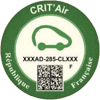
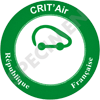
Ajout des vignettes critair

diff --git a/frontend/src/components/Report.vue b/frontend/src/components/Report.vue
@@ -41,12 +41,15 @@
         <!-- debut vignette -->
         <div class="row">
           <div class="col-sm-5">
-            <div class="alert alert-icon alert-info" role="alert"> <i v-bind:class="'fa fa-' + v.affichage_logo " ></i> Numéro - Plaque d'immatriculation : {{ v.plaque }}</div>
+            <div class="alert alert-icon alert-info" role="alert"> <i v-bind:class="'fa fa-' + v.logo_vehicule " ></i> Numéro - Plaque d'immatriculation : {{ v.plaque }}</div>
           </div>
-          <div class="col-sm-5" v-if="beta">
-            <div class="alert alert-icon alert-3" role="alert"> <i class="fa fa-info-circle"></i> Vignette Crit'Air - Tous les véhicules <span class="txt-small">100% électrique et hydrogènes</span> </div>
+          <div class="col-sm-5" v-if="v.vignette_numero !== ''">
+            <div v-bind:class="'alert alert-icon alert-' + v.vignette_numero " role="alert"> <i class="fa fa-info-circle"></i> Eligible vignette Crit'Air {{ v.vignette_numero }} </div>
           </div>
-          <div class="col-sm-2" v-if="beta"><img alt="" class="img-responsive" src="assets/images/vignettes_crit_air/petit/vignette_3.png"></div>
+          <div class="col-sm-2" v-if="v.vignette_numero !== ''">
+            <img class="img-responsive" v-bind:src="'assets/images/vignettes_crit_air/petit/vignette_' + v.vignette_numero + '.png' ">
+          </div>
+
         </div>
         <!-- fin vignette -->
         <!-- debut trait séparation -->
@@ -58,7 +61,7 @@
           <!-- Nav tabs -->
           <ul class="nav nav-tabs" role="tablist">
             <li :class="[{'active' : tab === 'abstract'}]"><a class="clickable" @click="tab = 'abstract'"><i class="fa fa-refresh pr-10"></i> Synthèse</a></li>
-            <li :class="[{'active' : tab === 'vehicle'}]"><a class="clickable" @click="tab = 'vehicle'"><i v-bind:class="'fa fa-' + v.affichage_logo + ' pr-10'" ></i>Véhicule</a></li>
+            <li :class="[{'active' : tab === 'vehicle'}]"><a class="clickable" @click="tab = 'vehicle'"><i v-bind:class="'fa fa-' + v.logo_vehicule + ' pr-10'" ></i>Véhicule</a></li>
             <li :class="[{'active' : tab === 'holder'}]"><a class="clickable" @click="tab = 'holder'"><i class="fa fa-address-card pr-10"></i>Titulaire & Titre</a></li>
             <li :class="[{'active' : tab === 'situation'}]"><a class="clickable" @click="tab = 'situation'"><i class="fa fa-clipboard pr-10"></i> Situation administrative</a></li>
             <li :class="[{'active' : tab === 'history'}]"><a class="clickable" @click="tab = 'history'"><i class="fa fa-calculator pr-10"></i> Historique des opérations </a></li>
@@ -78,7 +81,7 @@
                 </div>
                 <div class="row">
                   <!-- debut voiture  -->
-                  <div class="col-sm-1"><i v-bind:class="'fa fa-' + v.affichage_logo + ' fa-2x'" ></i></div>
+                  <div class="col-sm-1"><i v-bind:class="'fa fa-' + v.logo_vehicule + ' fa-2x'" ></i></div>
                   <div class="col-sm-6"><span class="info_red txt-small-13">{{ v.ctec.marque }} {{ v.ctec.modele }}</span></br>
                   <div v-if="v.ctec.puissance.cv">  <span class="txt-small-13">Puissance fiscale :</span> <span class="info_red txt-small-13">{{ v.ctec.puissance.cv }} ch</span></div> </div>
                     <div class="col-sm-5"><span class="color-info_2 bold_4 txt-small-13">Calculez le montant de votre certificat d'immatriculation</span><br/><a href="https://siv.interieur.gouv.fr/map-usg-ui/do/simtax_accueil" class="btn-sm-link pop color-info_2 bold_4 txt-small-12 no-padding" data-container="body" data-toggle="popover" data-placement="top" data-content="Calculez le montant de votre certificat d'immatriculation" data-original-title="Simulateur" title="Simulateur" target="_blank">Accédez au simulateur de calcul<i class="fa fa-external-link pl-10"></i></a></div>
@@ -896,7 +899,28 @@ export default {
         return (year > 1) ? year + ' ans' : year + ' an'
       }
     },
-    getLogoVehicule (genre) {
+    getVehiculeTypeCarburant (carburant) {
+      // Mapping Carburant
+      let essence = ['ES', 'EH', 'ET', 'FE', 'FH']
+      let diesel = ['GO', 'GA', 'GE', 'GF', 'GG', 'GH', 'PL', 'GQ']
+      let electHydro = ['AC', 'EL', 'H2', 'HE', 'HH']
+      let gaz = ['EG', 'EN', 'EP', 'EQ', 'FG', 'FN', 'G2', 'GN', 'GP', 'GZ', 'NH', 'PH']
+      let hybrideRech = ['EE', 'EM', 'ER', 'FL', 'GL', 'GM', 'NE', 'PE']
+      let typeCarburant = ''
+      if (essence.includes(carburant)) {
+        typeCarburant = 'essence'
+      } else if (diesel.includes(carburant)) {
+        typeCarburant = 'diesel'
+      } else if (electHydro.includes(carburant)) {
+        typeCarburant = 'electrique'
+      } else if (gaz.includes(carburant)) {
+        typeCarburant = 'gaz'
+      } else if (hybrideRech.includes(carburant)) {
+        typeCarburant = 'hybride'
+      }
+      return typeCarburant
+    },
+    getVehiculeLogo (genre) {
       let moto = ['MTL', 'MTT1', 'MTT2', 'MTTE', 'CL']
       let truck = ['CAM', 'Deriv-VP', 'TRA', 'TRR', 'TCP']
       let type = 'car'
@@ -906,6 +930,101 @@ export default {
         type = 'truck'
       }
       return type
+    },
+    getVignetteNumero (genre, typeCarburant, pollution, dateImmat) {
+      let splitDate = dateImmat.split('/')
+      let dateImmatEn = new Date(splitDate[2] + '-' + splitDate[1] + '-' + splitDate[0])
+
+      // Mapping Genre
+      let motocycle = ['MTL', 'MTT1', 'MTT2', 'MTTE', 'TM', 'QM', 'TQM']
+      let cyclomoteur = ['CYCL', 'CL']
+      let voiture = ['VP']
+      let vehiculeUtilLeger = ['CTTE', 'Deriv-VP', 'VTSU']
+      let poidsLourdsCarBus = ['CAM', 'TRA', 'TRR', 'TCP', 'VASP', 'SREM']
+
+      // Mapping Norme Euro
+      let normeEuro = (pollution) ? pollution.split('EURO') : ''
+      let numeroEuro = (normeEuro !== '' && normeEuro[1] !== undefined) ? normeEuro[1] : ''
+      let vignette = ''
+
+      if (typeCarburant === 'gaz' || typeCarburant === 'hybride') {
+        vignette = 1
+      } else if (typeCarburant === 'electrique') {
+        vignette = 'electrique'
+      } else {
+        if (motocycle.includes(genre) || cyclomoteur.includes(genre)) {
+          if (numeroEuro === '4' || (numeroEuro === '' && motocycle.includes(genre) && dateImmatEn >= new Date('2017-01-01')) || (numeroEuro === '' && cyclomoteur.includes(genre) && dateImmatEn >= new Date('2018-01-01'))) {
+            vignette = 1
+          } else if (numeroEuro === '3' || (numeroEuro === '' && motocycle.includes(genre) && (dateImmatEn >= new Date('2007-01-01') && dateImmatEn <= new Date('2016-12-31'))) || (numeroEuro === '' && cyclomoteur.includes(genre) && (dateImmatEn >= new Date('2007-01-01') && dateImmatEn <= new Date('2017-12-31')))) {
+            vignette = 2
+          } else if (numeroEuro === '2' || (numeroEuro === '' && dateImmatEn >= new Date('2004-07-01') && dateImmatEn >= new Date('2006-12-31'))) {
+            vignette = 3
+          } else if (dateImmatEn >= new Date('2000-06-01') && dateImmatEn <= new Date('2004-06-30')) {
+            vignette = 4
+          }
+        } else if (voiture.includes(genre)) {
+          if (typeCarburant === 'essence') {
+            if (numeroEuro === '5' || numeroEuro === '6' || (numeroEuro === '' && dateImmatEn >= new Date('2011-01-01'))) {
+              vignette = 1
+            } else if (numeroEuro === '4' || (numeroEuro === '' && dateImmatEn >= new Date('2006-01-01') && dateImmatEn <= new Date('2010-12-31'))) {
+              vignette = 2
+            } else if (numeroEuro === '2' || numeroEuro === '3' || (numeroEuro === '' && dateImmatEn >= new Date('1997-01-01') && dateImmatEn <= new Date('2005-12-31'))) {
+              vignette = 3
+            }
+          } else if (typeCarburant === 'diesel') {
+            if (numeroEuro === '5' || numeroEuro === '6' || (numeroEuro === '' && dateImmatEn >= new Date('2011-01-01'))) {
+              vignette = 2
+            } else if (numeroEuro === '4' || (numeroEuro === '' && dateImmatEn >= new Date('2006-01-01') && dateImmatEn <= new Date('2010-12-31'))) {
+              vignette = 3
+            } else if (numeroEuro === '3' || (numeroEuro === '' && dateImmatEn >= new Date('2001-01-01') && dateImmatEn <= new Date('2005-12-31'))) {
+              vignette = 4
+            } else if (numeroEuro === '2' || (numeroEuro === '' && dateImmatEn >= new Date('1997-01-01') && dateImmatEn <= new Date('2000-12-31'))) {
+              vignette = 5
+            }
+          }
+        } else if (vehiculeUtilLeger.includes(genre)) {
+          if (typeCarburant === 'essence') {
+            if (numeroEuro === '5' || numeroEuro === '6' || (numeroEuro === '' && dateImmatEn >= new Date('2011-01-01'))) {
+              vignette = 1
+            } else if (numeroEuro === '4' || (numeroEuro === '' && dateImmatEn >= new Date('2006-01-01') && dateImmatEn <= new Date('2010-12-31'))) {
+              vignette = 2
+            } else if (numeroEuro === '2' || numeroEuro === '3' || (numeroEuro === '' && dateImmatEn >= new Date('1997-01-01') && dateImmatEn <= new Date('2005-12-31'))) {
+              vignette = 3
+            }
+          } else if (typeCarburant === 'diesel') {
+            if (numeroEuro === '5' || numeroEuro === '6' || (numeroEuro === '' && dateImmatEn >= new Date('2011-01-01'))) {
+              vignette = 2
+            } else if (numeroEuro === '4' || (numeroEuro === '' && dateImmatEn >= new Date('2006-01-01') && dateImmatEn <= new Date('2010-12-31'))) {
+              vignette = 3
+            } else if (numeroEuro === '3' || (numeroEuro === '' && dateImmatEn >= new Date('2001-01-01') && dateImmatEn <= new Date('2005-12-31'))) {
+              vignette = 4
+            } else if (numeroEuro === '2' || (numeroEuro === '' && dateImmatEn >= new Date('1997-01-01') && dateImmatEn <= new Date('2000-12-31'))) {
+              vignette = 5
+            }
+          }
+        } else if (poidsLourdsCarBus.includes(genre)) {
+          if (typeCarburant === 'essence') {
+            if (numeroEuro === '6' || (numeroEuro === '' && dateImmatEn >= new Date('2014-01-01'))) {
+              vignette = 1
+            } else if (numeroEuro === '5' || (numeroEuro === '' && dateImmatEn >= new Date('2009-10-01') && dateImmatEn <= new Date('2013-12-31'))) {
+              vignette = 2
+            } else if (numeroEuro === '3' || numeroEuro === '4' || (numeroEuro === '' && dateImmatEn >= new Date('2001-10-01') && dateImmatEn <= new Date('2009-09-30'))) {
+              vignette = 3
+            }
+          } else if (typeCarburant === 'diesel') {
+            if (numeroEuro === '6' || (numeroEuro === '' && dateImmatEn >= new Date('2014-01-01'))) {
+              vignette = 2
+            } else if (numeroEuro === '5' || (numeroEuro === '' && dateImmatEn >= new Date('2009-10-01') && dateImmatEn <= new Date('2013-12-31'))) {
+              vignette = 3
+            } else if (numeroEuro === '4' || (numeroEuro === '' && dateImmatEn >= new Date('2006-10-01') && dateImmatEn <= new Date('2009-09-30'))) {
+              vignette = 4
+            } else if (numeroEuro === '3' || (numeroEuro === '' && dateImmatEn >= new Date('2001-10-01') && dateImmatEn <= new Date('2006-09-30'))) {
+              vignette = 5
+            }
+          }
+        }
+      }
+      return vignette
     }
   },
   created () {
@@ -978,7 +1097,8 @@ export default {
         this.v.nb_proprietaires = veh.nb_proprietaire
         this.v.nb_tit = (veh.historique !== undefined) ? this.calcNbTit(veh.historique) : undefined
         this.v.age_veh = veh.age_annee
-        this.v.affichage_logo = this.getLogoVehicule(veh.CTEC_RLIB_GENRE)
+        this.v.logo_vehicule = this.getVehiculeLogo(veh.CTEC_RLIB_GENRE)
+        this.v.vignette_numero = this.getVignetteNumero(veh.CTEC_RLIB_GENRE, this.getVehiculeTypeCarburant(veh.CTEC_RLIB_ENERGIE), veh.CTEC_RLIB_POLLUTION, veh.date_premiere_immat)
 
         this.v.administratif.gages = veh.gage || this.default
         this.v.administratif.suspensions = (veh.suspension === 'NON') ? ((veh.suspension === 'NON') ? 'NON' : 'certificat annulé') : ((veh.annulation_ci === 'NON') ? 'certificat suspendu' : 'certificat suspendu et annulé') // mapping à valider

diff --git a/frontend/src/components/Search.vue b/frontend/src/components/Search.vue
@@ -77,7 +77,7 @@
                   <div class="col-md-12">
                     <span class="info_red txt-small-11" v-if="(status == 'failed') && (!checkFields)">* Veuillez renseignez les champs obligatoires</span>
                     <fieldset>
-                      <legend><span class="color-default">Tutulaire</span></legend>
+                      <legend><span class="color-default">Titulaire</span></legend>
                       <form role="form">
                         <div class="row">
                           <div class="col-md-4">
@@ -143,7 +143,7 @@
                 <div class="row">
                   <div class="col-md-12"> <span class="info_red txt-small-11" v-if="status == 'failed'">* Veuillez renseignez les champs obligatoire</span>
                     <fieldset>
-                      <legend><span class="color-default">Tutulaire</span></legend>
+                      <legend><span class="color-default">Titulaire</span></legend>
                       <form role="form">
                         <div class="row">
                           <div class="col-md-6">

diff --git a/frontend/src/assets/scss/_style.scss b/frontend/src/assets/scss/_style.scss
@@ -9390,32 +9390,32 @@ hr.style1 {
 
 .alert-0 {
   color: #fff;
-  background-color: #407337;
+  background-color: #008932;
 }
 
 .alert-1 {
   color: #fff;
-  background-color: #7b4787;
+  background-color: #a864a1;
 }
 
 .alert-2 {
-  color: #f6da53;
-  background-color: #edbd37;
+  color: #fff;
+  background-color: #ffed01;
 }
 
 .alert-3 {
   color: #fff;
-  background-color: #e88939;
+  background-color: #f7a701;
 }
 
 .alert-4 {
   color: #fff;
-  background-color: #4a252c;
+  background-color: #95052a;
 }
 
 .alert-5 {
   color: #fff;
-  background-color: #4a4643;
+  background-color: #5d7284;
 }
 /* -------------------- fin alertes -------------------- */
 /* -------------------- debut tableau -------------------- */
